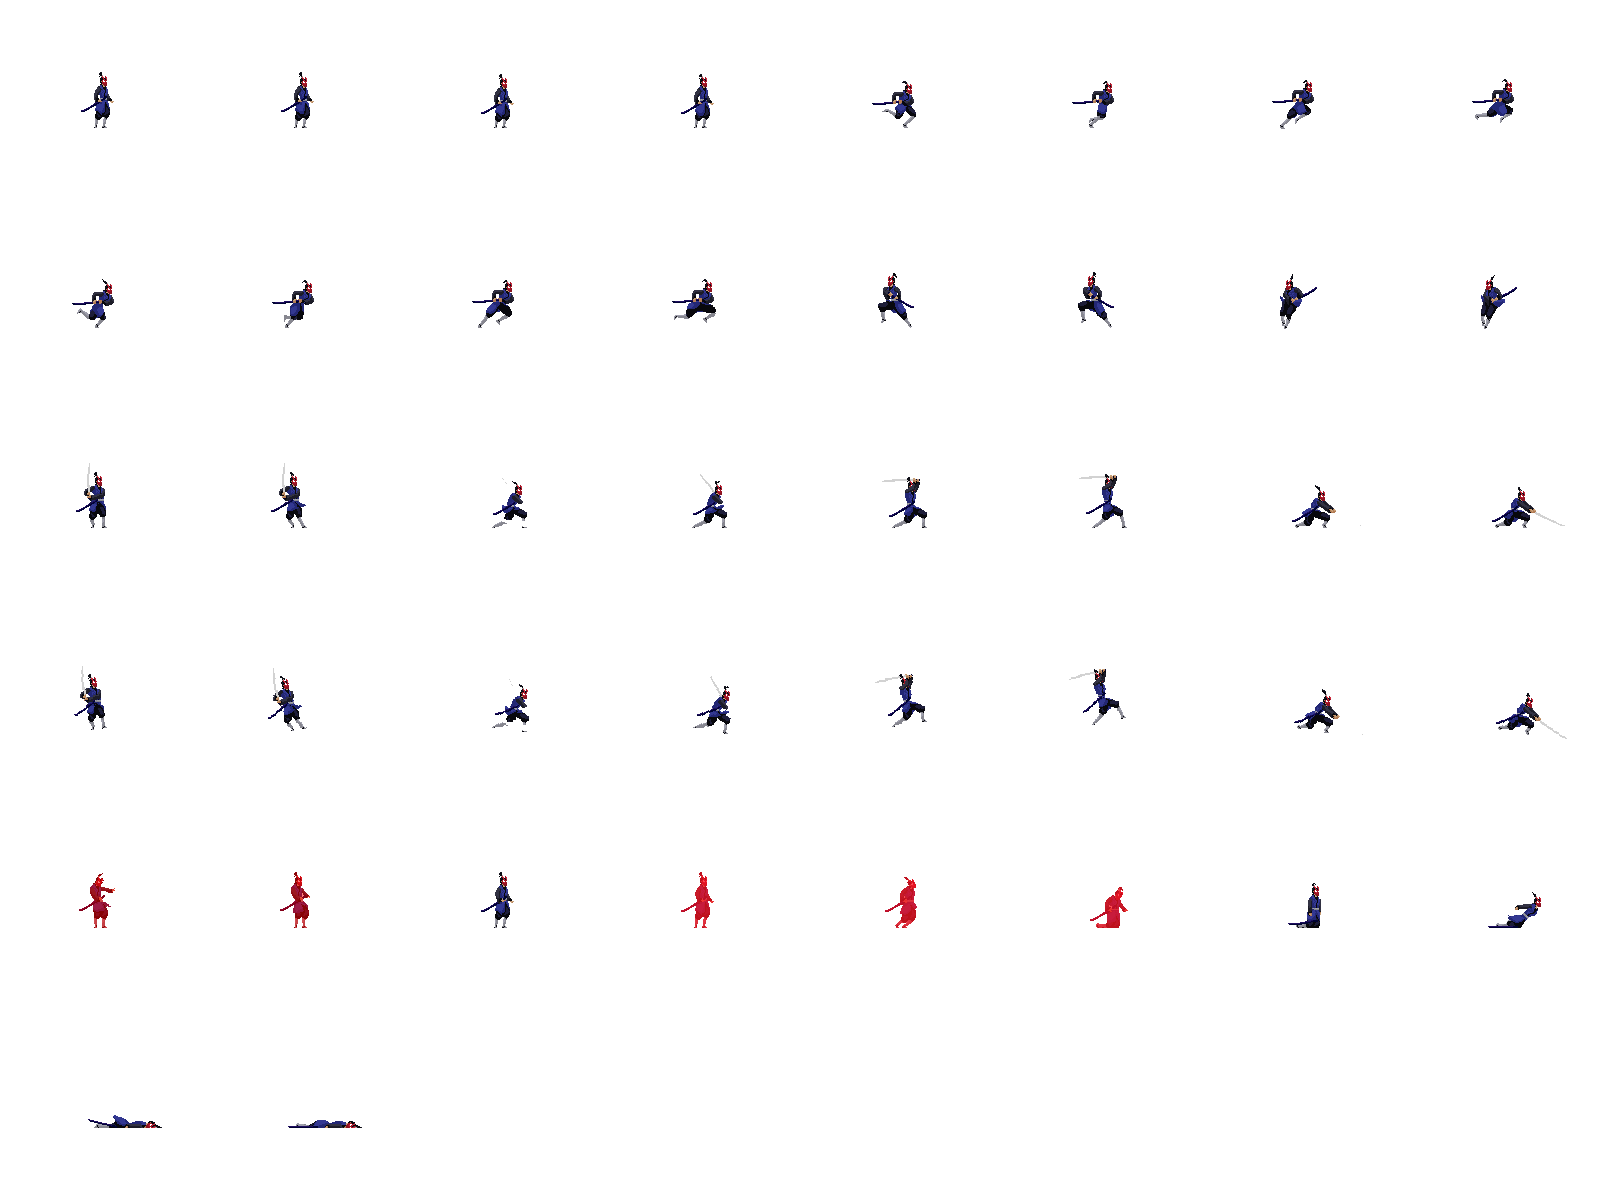
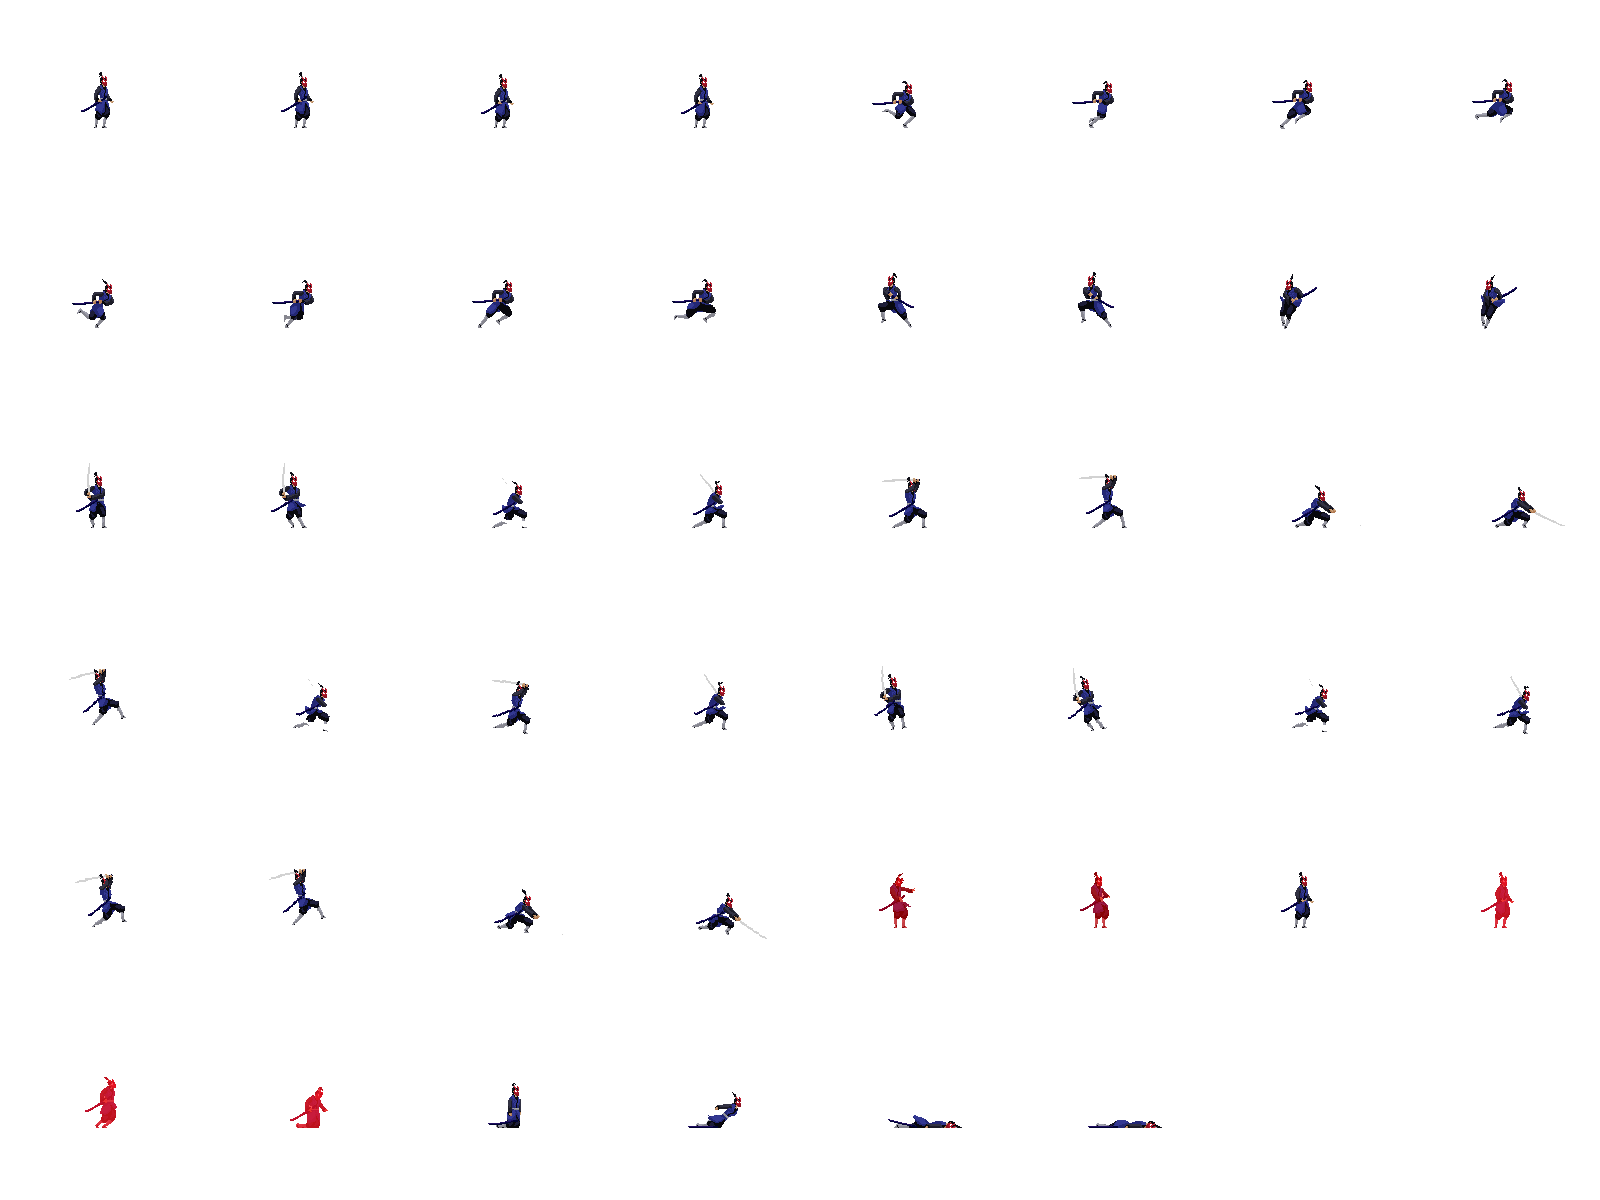
feat(combat): hero attack3 combo frames and sustained roaming
- hero sheet gains 4-frame attack3 (windup->slash->turn->recover); riposte plays it
- retreat applies 90f roaming; while roaming, approach steps become spacing steps
- matches now 37-50s with 20+ retreats; acceptance still green

diff --git a/src/engine/battle.ts b/src/engine/battle.ts
@@ -571,6 +571,8 @@ export class Battle {
     if (base <= 0) {
       if (skill.id === "hero_retreat" || skill.id === "enemy_retreat") {
         this.stepAway(att, def, 2);
+        att.statuses.set("roaming", 90);
+        this.logLine("event", `${att.name} 进入游走状态（90 帧内保持距离）`);
       }
       if (skill.id === "enemy_step" && this.enemyRuleset.mechanic === "kite") {
         att.statuses.set("evasion", 30);
@@ -905,6 +907,11 @@ export class Battle {
   }
 
   private stepToward(actor: ActorState, foe: ActorState, label: string) {
+    // 游走状态：不主动贴脸，改为保持/拉开距离
+    if (actor.statuses.has("roaming") && Math.abs(actor.slot - foe.slot) <= 2) {
+      this.stepAway(actor, foe, 1);
+      return;
+    }
     const dir = Math.sign(foe.slot - actor.slot);
     if (dir === 0) return;
     const next = Math.max(ARENA_MIN_SLOT, Math.min(ARENA_MAX_SLOT, actor.slot + dir));
@@ -1131,6 +1138,7 @@ export function describeCost(rule: RuleDef): string {
       return "无";
   }
 }
+
 
 
 

diff --git a/src/render/presenter.ts b/src/render/presenter.ts
@@ -195,7 +195,10 @@ export class Presenter {
           const stop = ev.tier === "ultimate" ? 16 : ev.tier === "key" ? 22 : 28;
           this.lungeTarget[side] = dir * Math.max(0, gap - stop);
           const heavy = skill === "hero_earthhammer" ? "HAMMER" : skill === "hero_execute" ? "EXEC" : null;
-          const attackKind = skill === "enemy_slam" && actor.supportsAttack3 ? "attack3" : attackForSkill(skill);
+          const attackKind =
+            (skill === "enemy_slam" || skill === "hero_riposte") && actor.supportsAttack3
+              ? "attack3"
+              : attackForSkill(skill);
           this.pendingAttack[side] = heavy ? null : attackKind;
           const leanMap: Record<string, number> = {
             hero_thrust: 0.2, hero_execute: 0.22, hero_rend: 0.14,
@@ -951,6 +954,7 @@ export class Presenter {
     };
   }
 }
+
 
 
 

diff --git a/src/engine/types.ts b/src/engine/types.ts
@@ -15,6 +15,7 @@ export type StatusId =
   | "downed" // 倒地：受身前的硬直
   | "ukemi_counter" // 受身反击：起身后下一击增伤
   | "combo_ready" // 确反连招窗口
+  | "roaming" // 游走：持续拉开距离
   | "read"; // 看破：下一次命中必暴击
 
 export type Tier = "normal" | "key" | "ultimate";
@@ -184,6 +185,7 @@ export interface CombatSource {
   snapshot(): BattleSnapshot;
   drainEvents(): BattleEvent[];
 }
+
 
 
 

diff --git a/src/render/hero.ts b/src/render/hero.ts
@@ -31,6 +31,7 @@ const STATUS_STYLE: Record<StatusId, { label: string; color: number }> = {
   downed: { label: "倒", color: 0xff8a5c },
   ukemi_counter: { label: "反", color: 0xffd45c },
   combo_ready: { label: "连", color: 0x7effc4 },
+  roaming: { label: "走", color: 0x9fd8ff },
 };
 
 const ANCHOR_X = 0.485;
@@ -393,6 +394,7 @@ export function attackForSkill(skill: string): "attack1" | "attack2" {
 }
 
 export type { Side };
+
 
 
 

diff --git a/src/ui/hud.ts b/src/ui/hud.ts
@@ -16,6 +16,7 @@ const STATUS_LABEL: Record<StatusId, string> = {
   downed: "倒地",
   ukemi_counter: "受身反击",
   combo_ready: "连招窗口",
+  roaming: "游走",
 };
 
 const LOG_CLASS: Record<LogEntry["kind"], string> = {
@@ -155,6 +156,7 @@ export class Hud {
     this.rulesPanel.setAttribute("aria-hidden", String(!open));
   }
 }
+
 
 
 
